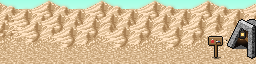
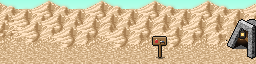
Dunes inn sign moved off the enemy spot; swamp bridge comment corrected; notes cleaned

Changed region(s): [[0.5625, 0.5312, 0.6875, 0.9375], [0.7812, 0.5312, 0.9062, 0.9375]]

diff --git a/src/data/connectors.js b/src/data/connectors.js
@@ -11,9 +11,9 @@ export const connectorScenes = {
     bridge_swamp: ["bridge_swamp_west", "bridge_swamp_east"],
 };
 
-// Bridges whose art has a zone on its left that the map does not (the swamp bridge is drawn Prairie to the
-// left, Swamp to the right, though the Prairie lies east of the Swamp on the map): going from that zone he
-// walks left to right, from the other one right to left. Other bridges follow the map (the side he stands on).
+// Bridges whose art has a known zone on its left (the swamp bridge: Prairie on the left, Swamp on the right, as on the map): going
+// from that zone he walks left to right, from the other one right to left. The swamp stages sit west of the bridge point on the map,
+// so the position test would send both ways east; this line fixes it. Other bridges follow the side he stands on.
 export const bridgeLeftZone = { bridge_swamp: "la_Pradera" };
 
 // Border scenes: a static scene joining two regions, no special rules but he can walk it either way. Drawn with the

diff --git a/docs/ARCHIVE.md b/docs/ARCHIVE.md
@@ -2375,3 +2375,6 @@ On a quest the wizard's revive puts the cabin near where he fell, so the cabin n
 Name the files curanderobg_town, curanderobg_city, curanderobg_cave (img/story). The wild cabin stays for every other zone. Dueñon and Heidan never have a cabin.
 - BUG to reproduce (author, 2026-11-24 11:21): level 50 wizard at HP 0 in the Castle, stage 4 (boss fight, nothing on the scene), could not be resurrected; the Tower too. The code has no zone check on the god's touch (divine.js pjBtn needs fight.pjDead true, and run.disablePjBtn false); nothing found by reading. Check in a browser: is fight.pjDead true, is run.disablePjBtn stuck true, any console error. The Castle and the Tower are now also cabin-free zones for quests (src/cabin.js).
 - Remove pier battles (author's request): make sure no fight can happen on the pier walk. Today fights come only from travel.js planFight on zone-changing crossings (the pier visit does not use it), so first find out where the author saw a battle on the pier, then cut it.
+
+- Swamp bridge direction (author unsure): `bridgeLeftZone` in src/data/connectors.js says bridge_swamp has la_Pradera on its left (map has the Prairie east of the Swamp, art reads Prairie left). Check the dev panel's bridge_swamp walks; if wrong, change or remove the line. Other bridges may have the same art-versus-map mismatch: ask which.
+- Clerk prompt not done: rename scenes that are really borders to border_<from>_<to> in notes and lists (mouths are already renamed).

diff --git a/ideas.md b/ideas.md
@@ -229,3 +229,4 @@ Newest first; keep the last three, cut older ones to the archive.
 - 2026-11-24 (dev): walkWizardTo moves by requestAnimationFrame (same 11 px per 100 ms), frame still every 100 ms; the 100 ms clock is a fallback for background tabs. Untested in a browser. If still clippy, the 4-frame walk strip is the next suspect (artist: more frames), the loop's 50 ms tick is not involved now.
 - 2026-11-24 (dev): mouth labels built from zones[].name (connectors.js mouthLabel) instead of the raw Spanish point names. Clerk asked to sweep grammar in console strings and update the FAQ.
 - 2026-11-24 (dev): wakeUp after camping calls exploreOn() (extracted from the event picker's last branch) instead of walking back to offset 0, so he walks on from where he woke. Not another random event: other events assume offset 0. Untested in a browser.
+- 2026-11-24 (dev): las_dunas2.png sign moved from x 208 to 150 (enemy stands at x 192-224); sand patched by copying the strip 26 px left. Swamp bridge direction checked: map and art agree (Prairie west), bridgeLeftZone stays (the swamp stages sit west of the bridge point), only its comment fixed. Crossing fights are in code (mirrored right to left, not stairs/ladder/pier), never seen in a browser. Only border scene is border_gruta_duenon, already named right.

diff --git a/docs/dev-notes.md b/docs/dev-notes.md
@@ -49,6 +49,4 @@ Author's note: i was thinking in anothe mouth that conect the cave with la_Gruta
 - Mouth names (2026-11-24): mouths are now mouth_<outside zone>_<inside zone> (pantano_cueva, pradera_cueva, duenon_cueva, playa_mina, dunas_mina, desierto_mina, tundra_volcan, gruta_cueva, pradera_gruta); a mouth reached from two outside zones lists both joined by - (mouth_dunas-pradera_gruta, mouth_playa-pradera_mina). Rename again in connectors.js, travel_graph.py ENTRANCES and the png files if the author prefers other names.
 
 ## Next session (dev), 2026-11-24
-- Swamp bridge direction (author unsure): `bridgeLeftZone` in src/data/connectors.js says bridge_swamp has la_Pradera on its left (map has the Prairie east of the Swamp, art reads Prairie left). Check the dev panel's bridge_swamp walks; if wrong, change or remove the line. Other bridges may have the same art-versus-map mismatch: ask which.
 - Keep testing crossing fights with Dev panel > Connectors > "Walk it with a fight" (mirrored when the walk goes right to left); not seen in a browser yet.
-- Clerk prompt not done: rename scenes that are really borders to border_<from>_<to> in notes and lists (mouths are already renamed).

diff --git a/CHANGELOG.md b/CHANGELOG.md
@@ -1,6 +1,7 @@
 # Changelog
 
 ## Unreleased
+- The Dunes inn sign no longer stands where the enemy fights: in the second Dunes scene it moved from beside the cave entrance to the left of the enemy spot.
 - After camping in the sleeping bag the wizard no longer walks back to his usual spot: he wakes where he slept and goes straight on exploring (walks to another scene, or changes zone) from there. The inn is unchanged.
 - Grammar sweep of the player texts: the Help scroll ("withour", "intect", "achivement", "Showed near" and more), the Desert and Dueñon legends ("this hot dry air dries the bones", "intoxicates the air"), the "adores you" and "his prayer" console lines, and the FAQ questions. The FAQ also covers travelling over bridges, borders and mouths, fights on the road, the healer's cabin, spectra and prisms, and the underground inn in the Dunes.
 - The console lines for the cave and mine mouths are in English again ("comes to the mouth from Swamp to Cave") after the mouths were renamed.
